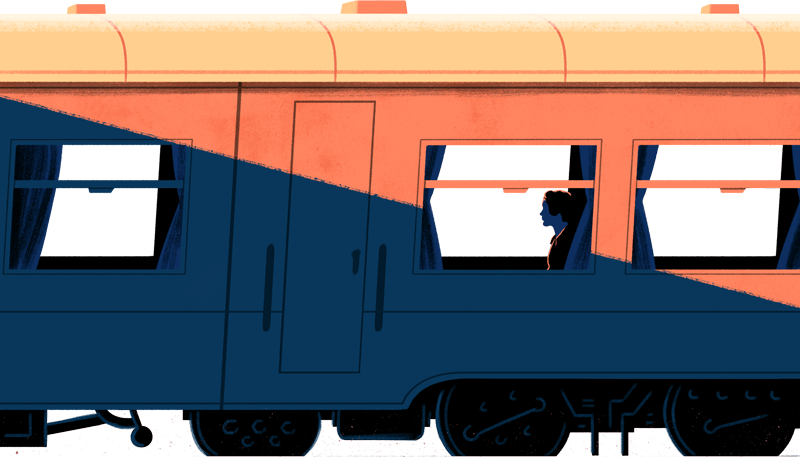
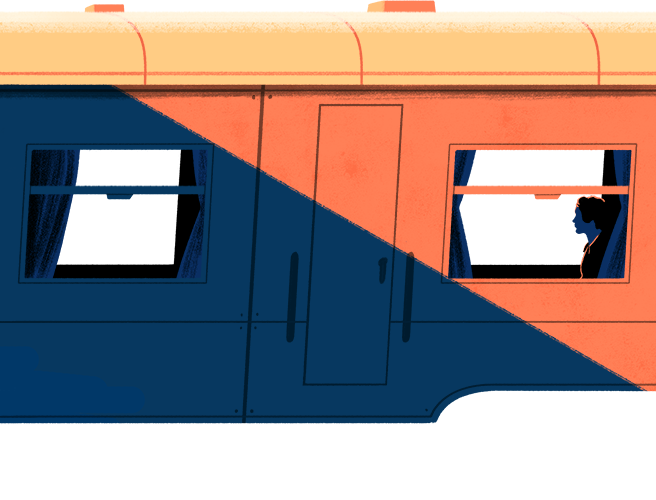
Animate wheels, actual train assets

diff --git a/src/css/modules/_header.scss b/src/css/modules/_header.scss
@@ -67,7 +67,7 @@
 
 .header__meta {
     position: absolute;
-    bottom: 140px;
+    bottom: 165px;
     left: 0;
     right: 0;
     z-index: 10;
@@ -195,6 +195,8 @@
 }
 
 .train {
+    position: relative;
+    z-index: 5;
     display: flex;
     height: 457px;
     width: 140%;
@@ -205,6 +207,7 @@
 .train__left {
     background: url("@@assetPath@@/assets/header-train-left.png") repeat-x;
     float: left;
+    background-position: right center;
 }
 
 .train__right {
@@ -217,4 +220,60 @@
     background-size: contain;
     flex-grow: 2;
     min-width: 3px;
+}
+
+.header-scene__train__under-carriage {
+    position: absolute;
+    left: 0;
+    right: 0;
+    bottom: 0;
+    height: 115px;
+    background: url("@@assetPath@@/assets/header-train-under-carriage.png") repeat-x;
+}
+
+@keyframes wheels {
+    0% {
+        transform: rotate(360deg);
+    }
+
+    100% {
+        transform: rotate(0deg);
+    }
+}
+
+.header-scene__train__wheels {
+    position: absolute;
+    left: 0;
+    right: 0;
+    bottom: 0;
+    height: 130px;
+
+    .train__wheel {
+        position: absolute;
+        height: 130px;
+        width: 130px;
+        background: url("@@assetPath@@/assets/header-train-wheel--1.png") no-repeat;
+        background-size: contain;
+        animation: wheels 4s infinite linear;
+    }
+
+    .train__wheel--1 {
+        left: 480px;
+        background-image: url("@@assetPath@@/assets/header-train-wheel--1.png");
+    }
+
+    .train__wheel--2 {
+        left: 736px;
+        background-image: url("@@assetPath@@/assets/header-train-wheel--2.png");
+    }
+
+    .train__wheel--3 {
+        left: 970px;
+        background-image: url("@@assetPath@@/assets/header-train-wheel--2.png");
+    }
+
+    .train__wheel--4 {
+        left: 1230px;
+        background-image: url("@@assetPath@@/assets/header-train-wheel--1.png");
+    }
 }

diff --git a/src/index.html b/src/index.html
@@ -77,7 +77,13 @@
             <img class="train__carriage" src="@@assetPath@@/assets/header-train.png" />
             <div class="train__right"></div>
         </div>
-        <div class="header-scene__train__wheels"></div>
+        <div class="header-scene__train__under-carriage"></div>
+        <div class="header-scene__train__wheels">
+            <div class="train__wheel train__wheel--1"></div>
+            <div class="train__wheel train__wheel--2"></div>
+            <div class="train__wheel train__wheel--3"></div>
+            <div class="train__wheel train__wheel--4"></div>
+        </div>
     </div>
     <div class="header-scene__layer-1"></div>
     <div class="header-scene__layer-2"></div>

diff --git a/Gruntfile.js b/Gruntfile.js
@@ -8,7 +8,7 @@ module.exports = function(grunt) {
     grunt.initConfig({
         watch: {
             local: {
-                files: ['src/css/**/*.scss', 'src/index.html', 'src/js/**/*.js', 'src/boot.js'],
+                files: ['src/css/**/*.scss', 'src/index.html', 'src/js/**/*.js', 'src/boot.js', 'src/assets/**/*'],
                 tasks: ['sass', 'autoprefixer', 'cssmin', 'copy', 'htmlConvert', 'replace:html', 'requirejs', 'replace:local']
             },
             remote: {
